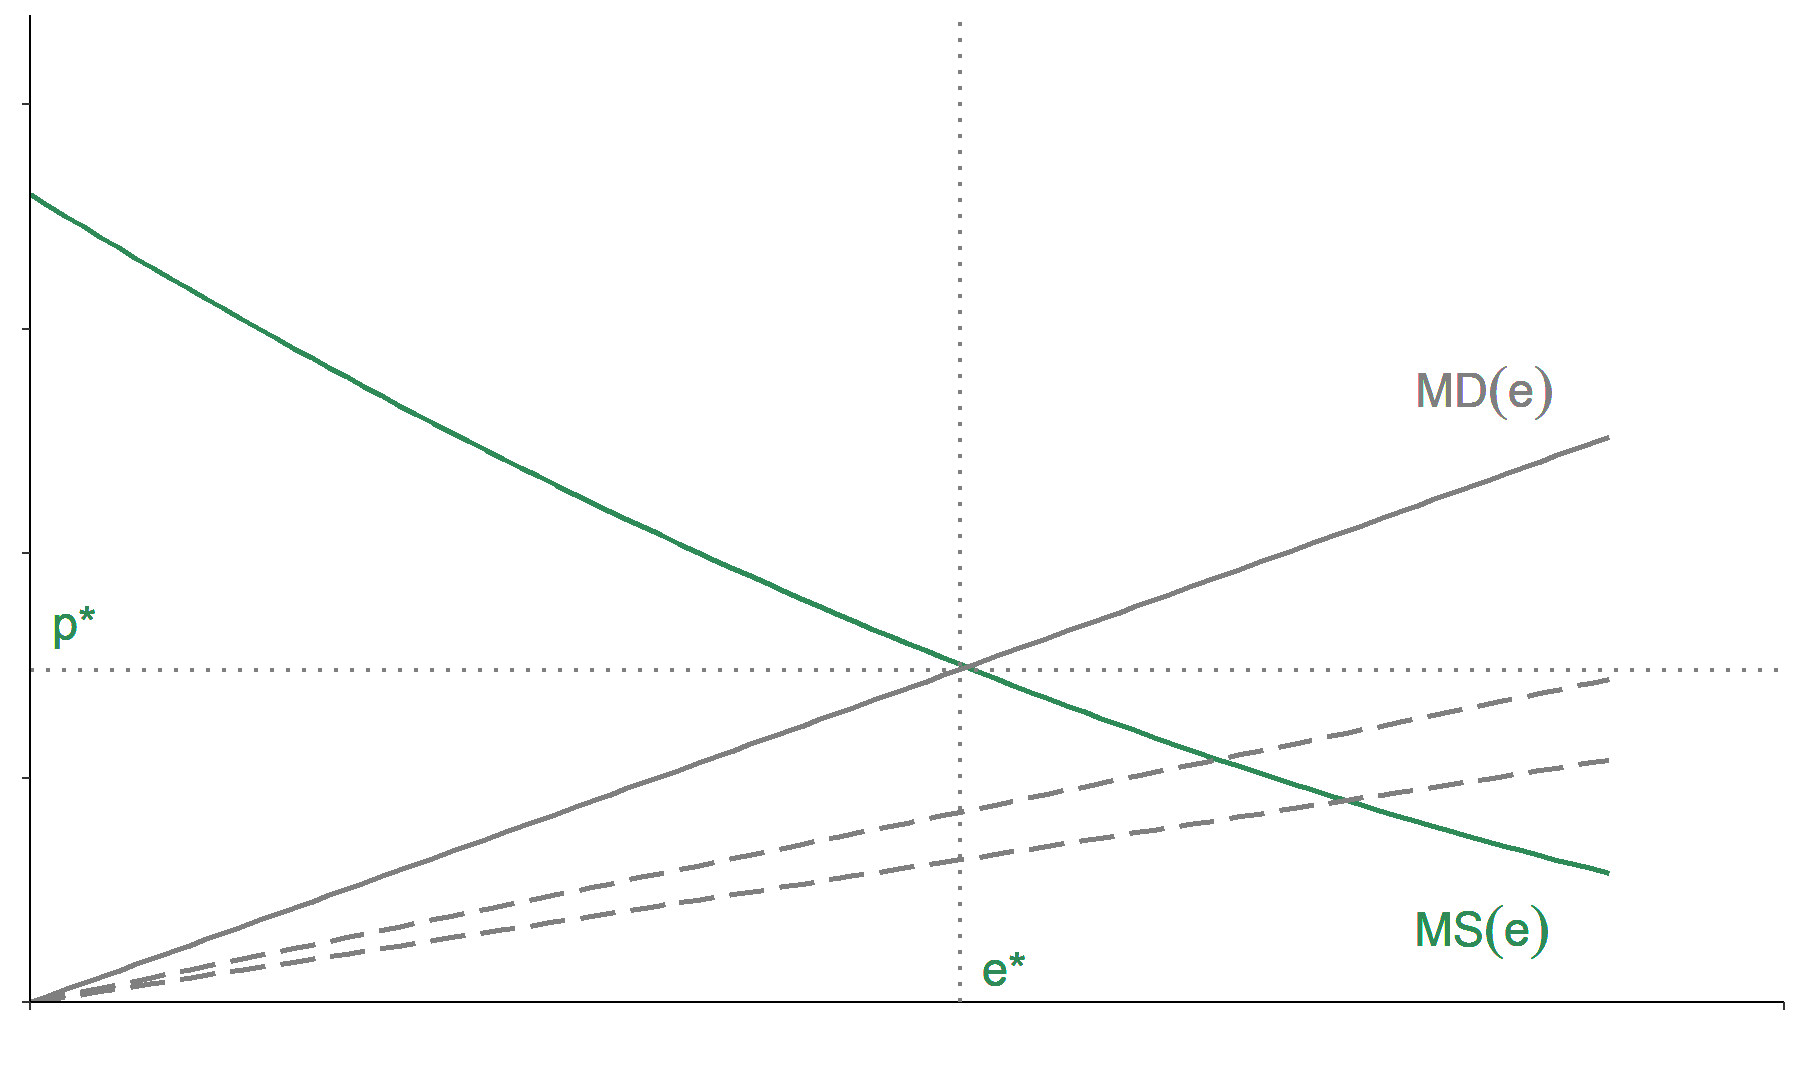
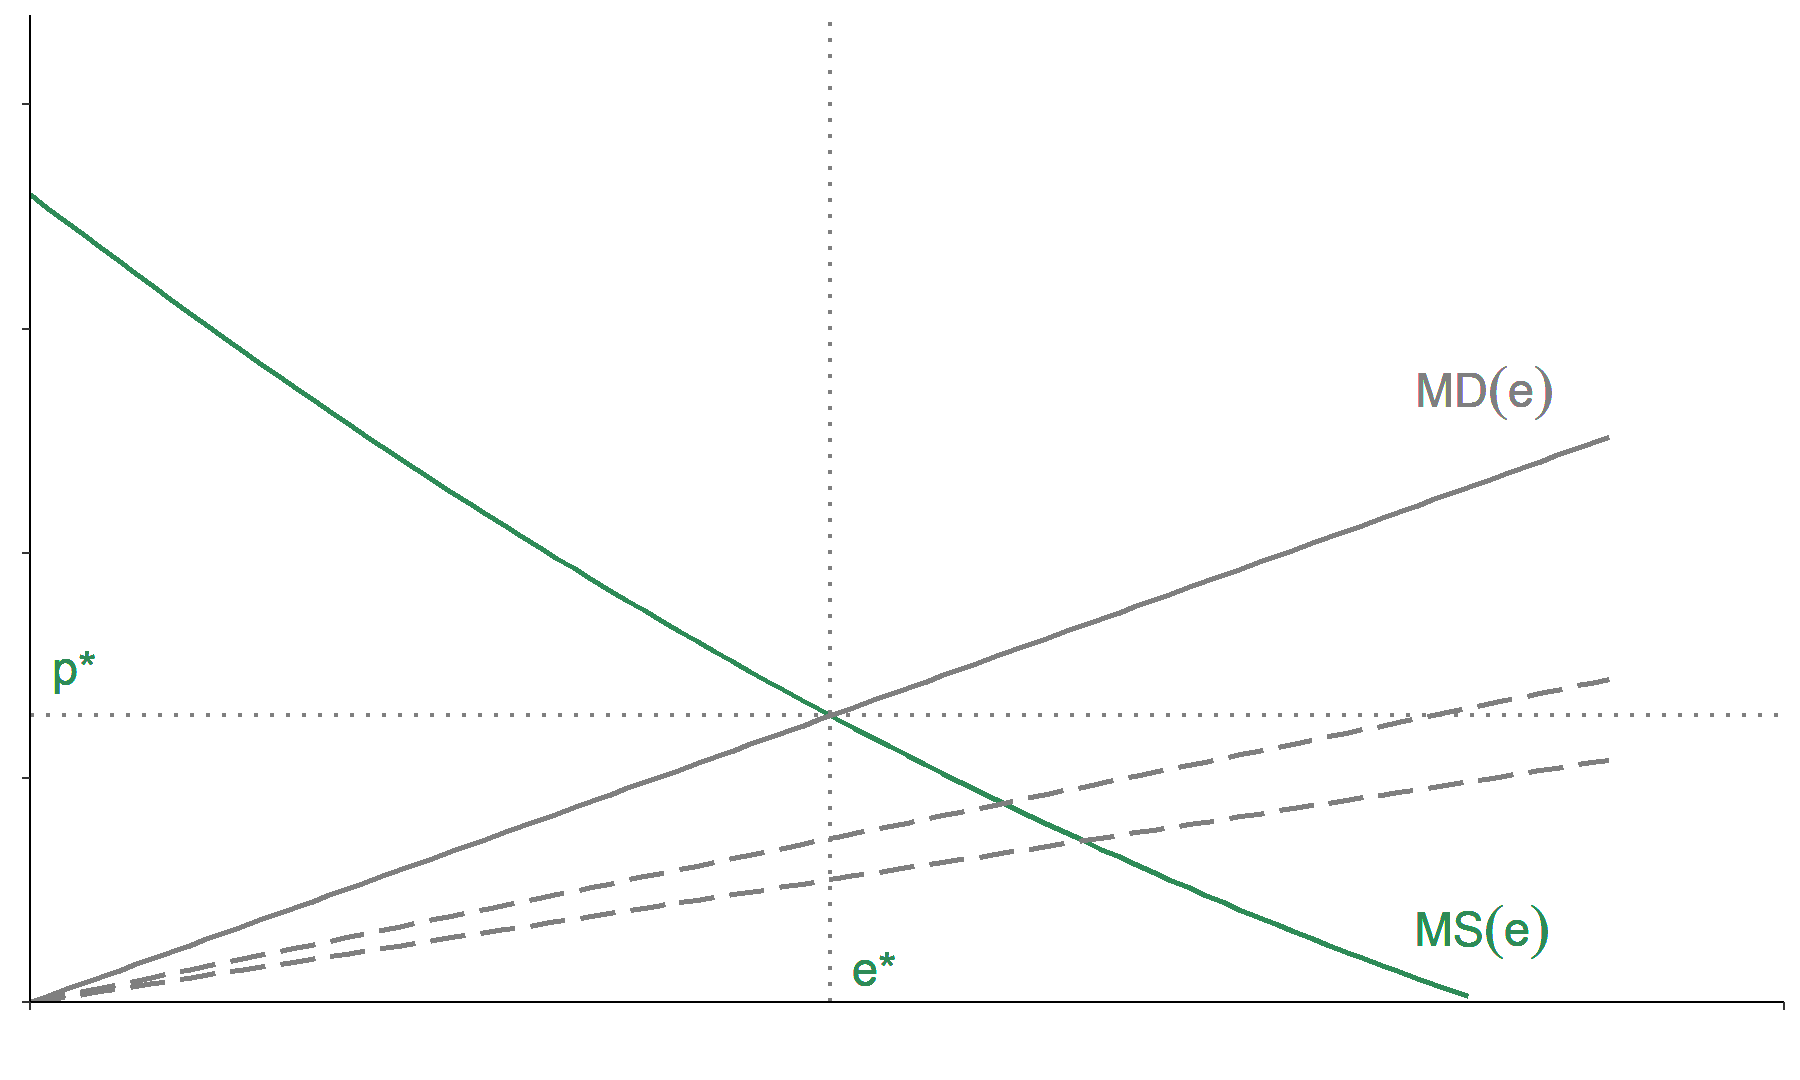
update: 20200926

diff --git a/06-Incentives.html b/06-Incentives.html
@@ -30,43 +30,20 @@ class: center, middle, inverse, title-slide
 
 # Rationale for Regulation
 
-Environmental regulation involves the government intervening in the private actions of firms and individuals.
+Environmental regulation involves the government intervening in the private actions of firms and individuals. It does so to address the issues of:
 
-Two basic theories of regulation are the *public interest theory*, and the *interest group theory*.
+- *Imperfect competition* - by controlling prices to protect consumers from monopoly pricing, and in some instances  - e.g., in the case of a natural monopoly - to restrict the entry of new firms.
+- *Imperfect information* -  by establishing liability rules to ensure the provision of quality (passive/indirect intervention), or by specifying acceptable levels of quality (active/direct intervention).
+- *Externalities* - by defining institutions/regulations to mitigate the provision of public bads and negative externalities.
 
----
-
-# Rationale for Regulation
-
-## The Public Interest Theory
-
-The public interest theory of regulation is a normative theory. It views the purpose of regulation as the promotion of public interest. Three general issues facilitate the specific roles of a regulator: 
-- *Imperfect competition* - control prices to protect consumers from monopoly pricing, and in some instances  - e.g., in the case of a natural monopoly - to restrict the entry of new firms.
-- *Imperfect information* -  establish a set of liability rules to ensure the provision of quality (passive/indirect intervention), or specify acceptable levels of quality (active/direct intervention).
-- *Externalities* - define a set of institutions and regulations to govern the provision of public bads and negative externalities.
+Most environmental regulations fall into two broad categories: *prescriptive regulations* (i.e., *command-and-control*) and *incentive-based regulations*.
 
 ---
 
-# Rationale for Regulation
-
-## The Interest Group Theory
-
-The interest group theory of regulation is a positive theory. It views the purpose of regulation as the promotion of the narrow interests of particular groups in society, and maintains that *rent seeking* is the primary rationale for regulation. 
-
-Rent Seeking involves private individuals or firms using the government to guarantee extra benefits (rents) through government-mandated restriction on economic activity.
-
----
 
 # Prescriptive Regulation
-
-Most environmental regulations fall into two broad categories: *prescriptive regulations* (also referred as *command-and-control*) and *incentive-based regulations*.
 
 Command-and-control is the dominant form of environmental regulation in the world. Its fundamental principle is for a regulator to specify the steps firms must take to mitigate/solve the environmental problem. 
-
----
-
-
-# Prescriptive Regulation
 
 There are two basic types of prescriptive regulations: *technology standards* and *performance standards*.
 
@@ -107,16 +84,16 @@ The equimarginal principle assumes the same marginal costs of emission control f
 
 Economic incentives, in contrast to prescriptive regulations, provide rewards to potential polluters to do what is perceived to be in public interest.
 
-Three basic types of economic incentives are: *emission fees*, *marketable permits*, and *liability*.
+Three basic types of economic incentives are: *marketable permits*, *emission fees*, and *liability*.
 
 ---
 
 
 # Incentive-Based Regulation
 
-Emission fees involve the payment of a charge per unit of pollution emitted. It then becomes in a polluter's interest to reduce emissions.
-
 Marketable permits allow polluters to buy and sell the right to pollute. This system is often referred as *cap-and-trade*, wherein the regulator sets a cap on overall emissions, and allows trading among polluters to determine who emits what. Trading induces a price or value on a permit to pollute.
+
+Emission fees involve the payment of a charge per unit of pollution emitted. It then becomes in a polluter's interest to reduce emissions.
 
 Liability is based on a simple concept: if you incur a damage, you must compensate for the damage. Importantly, the regulator does not prescribe a polluter any action, rather it enforces the responsibility for consequences.
 
@@ -145,7 +122,26 @@ The disadvantages to economic incentives are:
 ---
 
 
-# Pigovian Fees
+# Marketable Permits
+
+The virtue of marketable permits is that no matter how they are initially allocated, after trading, the equimarginal principle automatically holds. The following graph illustrates this. 
+
+The permits can be allocated for free, or being auctioned, with the revenue going to the government.
+
+---
+
+
+# Marketable Permits
+
+&lt;div class="figure" style="text-align: center"&gt;
+&lt;img src="06-Incentives_files/figure-html/permits-1.png" alt="Marketable Permits" width="90%" /&gt;
+&lt;p class="caption"&gt;Marketable Permits&lt;/p&gt;
+&lt;/div&gt;
+
+---
+
+
+# Emission Fees
 
 Normally, consumer preferences for goods are communicated to producers through the price system. 
 
@@ -156,18 +152,18 @@ A way to correct this is to establish an *emission fee* paid by a polluter to a 
 ---
 
 
-# Pigovian Fees
+# Emission Fees
 
-Consider a firm that produces some good, `\(x\)`, and in the process emits pollution, `\(e\)`. Let `\(C(e)\)`, such that `\(C'(e)&lt;0\)`, denote the firm's costs for emission abatement. That is, the firm's costs (or efforts) to reduce pollution increase with the emission abatement. Let `\(p\)` be the emission fee - established by a regulator - so that the payment from the polluter to the regulator is `\(pe\)`. 
+Consider a firm that produces a market good, and in the process emits pollution, `\(e\)`. Let `\(C(e)\)`, such that `\(C'(e)&lt;0\)`, denote the firm's costs for emission abatement. That is, the firm's costs (or efforts) to reduce pollution increase with the emission abatement. Let `\(p\)` be the emission fee - established by a regulator - so that the payment from the polluter to the regulator is `\(pe\)`. 
 
 Total emission-related costs for the firm, then, is given by the sum of the abatement costs and the payment associated with `\(e\)` units of emission: `$$TC(e) = C(e)+pe.$$` 
 
 ---
 
 
-# Pigovian Fees
+# Emission Fees
 
-It then follows that at the optimum: `$$p=-C'(e^*) \equiv MS(e^*),$$` where `\(MS(e)\)` denotes the marginal savings from emitting one more unit of pollution. 
+It then follows that at the optimum: `$$p=-C'(e^*) \equiv MS(e^*),$$` where `\(C'(e^*)\)` is the marginal cost of abating one more unit of pollution, and `\(MS(e)\)` is the marginal savings from emitting one more unit of pollution. 
 
 The foregoing indicates that when faced with an emission fee, firms will abate pollution up to the point where the marginal savings (or marginal cost of abatement) is equal to the emission fee. 
 
@@ -176,16 +172,16 @@ Note that in this instance, the equimarginal principle automatically holds: each
 ---
 
 
-# Pigovian Fees
+# Pigovian Taxes
 
-A special kind of emission fee, which aims to restore Pareto optimality in the case of market failure, is known as the *Pigovian fee*, after the English economist Arthur C. Pigou. 
+A special kind of emission fee, which aims to restore Pareto optimality in the case of market failure, is known as the *Pigovian fee* (or *Pigovian tax*), after the English economist Arthur C. Pigou. 
 
-A Pigovian fee (or Pigovian tax) is an emission fee that is exactly equal to the aggregate marginal damage caused by pollution when evaluated at the optimal level of pollution.
+A Pigovian tax is an emission fee that is exactly equal to the aggregate marginal damage caused by pollution when evaluated at the optimal level of pollution.
 
 ---
 
 
-# Pigovian Fees
+# Pigovian Taxes
 
 Suppose a total of `\(n\)` individuals are adversely affected from the pollution emitted by a firm. For person `\(i\)`, the damage from pollution is `\(D_i(e)\)`, and the total damage is given by the vertical sum of individual damage functions: `$$D(e) = \sum_{i=1}^{n}D_i(e).$$` The efficient amount of pollution is the amount that minimizes the sum of costs and damages from pollution. 
 
@@ -193,7 +189,7 @@ Suppose a total of `\(n\)` individuals are adversely affected from the pollution
 ---
 
 
-# Pigovian Fees
+# Pigovian Taxes
 
 &lt;div class="figure" style="text-align: center"&gt;
 &lt;img src="06-Incentives_files/figure-html/pigou1-1.png" alt="Optimal Pollution" width="90%" /&gt;
@@ -202,35 +198,33 @@ Suppose a total of `\(n\)` individuals are adversely affected from the pollution
 
 ---
 
-# Pigovian Fees
+# Pigovian Taxes
 
-At the optimum: `$$MD(e^*) = MS(e^*).$$` The emission fee associated with this optimal level of pollution is the Pigovian fee. That is, the Pigovian fee is not just any emission fee; it is, indeed, the marginal savings from pollution at the optimal level of pollution.
+At the optimum: `$$MD(e^*) = MS(e^*).$$` The emission fee associated with this optimal level of pollution is the Pigovian tax. That is, the Pigovian tax is not just any emission fee; it is, indeed, the marginal savings from pollution at the optimal level of pollution.
 
 ---
 
 
-# Pigovian Fees
+# Pigovian Taxes
 
 With multiple polluters, we typically assume that they are sharing the obligation of emission abatement in an efficient manner. The aggregate marginal savings is the horizontal sum of the individual marginal savings. 
 
-Thus, for a given emission fee, the aggregate marginal savings tells us how much of pollution will be emitted in total, while the individual marginal savings tell us how much each firm will contribute to that total.
-
 ---
 
 
-# Pigovian Fees
+# Pigovian Taxes
 
 &lt;div class="figure" style="text-align: center"&gt;
-&lt;img src="06-Incentives_files/figure-html/pigou2-1.png" alt="Individual Pollution" width="90%" /&gt;
-&lt;p class="caption"&gt;Individual Pollution&lt;/p&gt;
+&lt;img src="06-Incentives_files/figure-html/pigou2-1.png" alt="Optimal Pollution by Multiple Firms" width="90%" /&gt;
+&lt;p class="caption"&gt;Optimal Pollution by Multiple Firms&lt;/p&gt;
 &lt;/div&gt;
 
 ---
 
 
-# Bibliography
+# Pigovian Taxes
 
-Isaksen, E. T., &amp; Richter, A. (2019). Tragedy, Property Rights, and the Commons: Investigating the Causal Relationship from Institutions to Ecosystem Collapse. *Journal of the Association of Environmental and Resource Economists, 6(4)*, pp. 741-781.
+Thus, for a given emission fee, the aggregate marginal savings tells us how much of pollution will be emitted in total, while the individual marginal savings tell us how much each firm will contribute to that total.
     </textarea>
 <style data-target="print-only">@media screen {.remark-slide-container{display:block;}.remark-slide-scaler{box-shadow:none;}}</style>
 <script src="https://remarkjs.com/downloads/remark-latest.min.js"></script>
